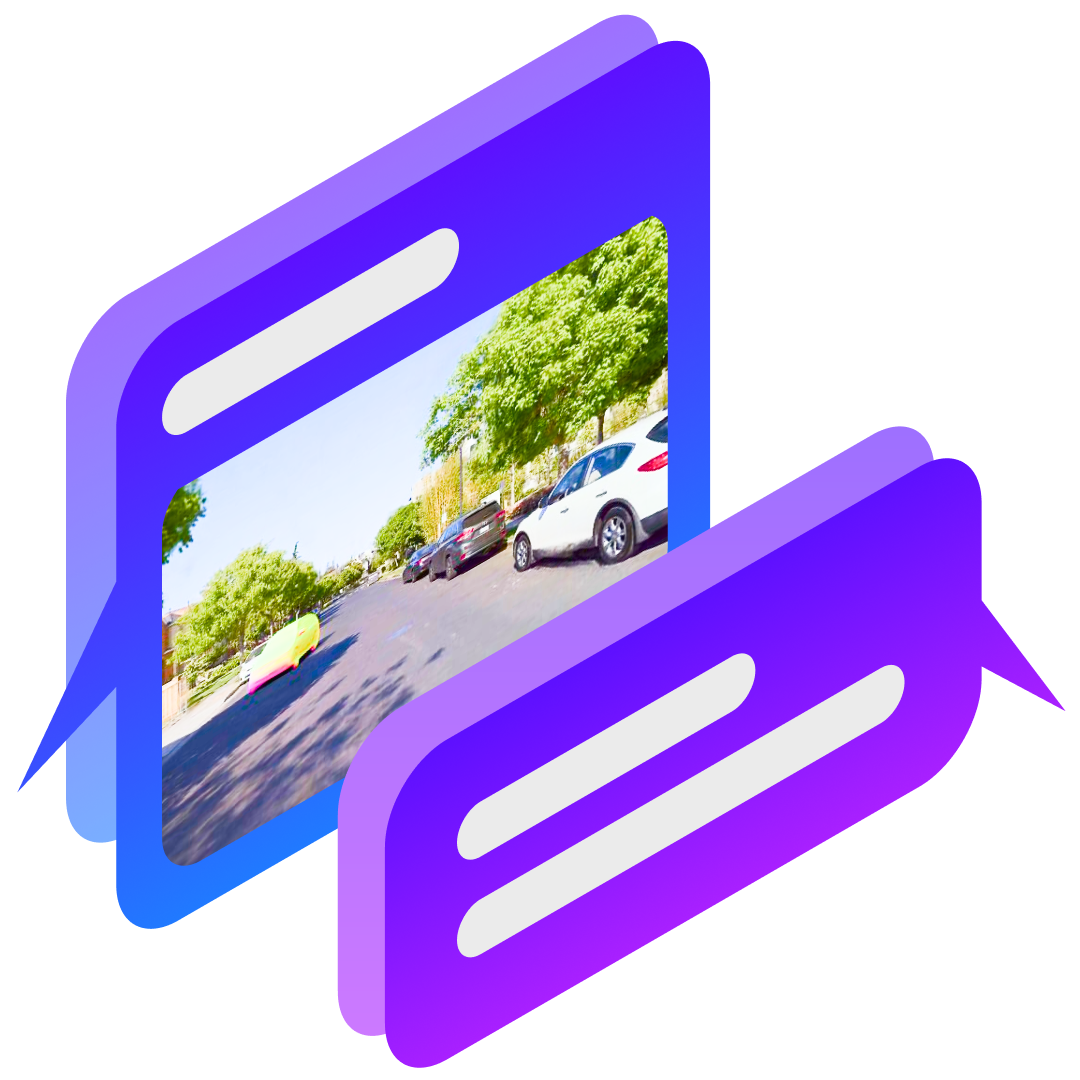
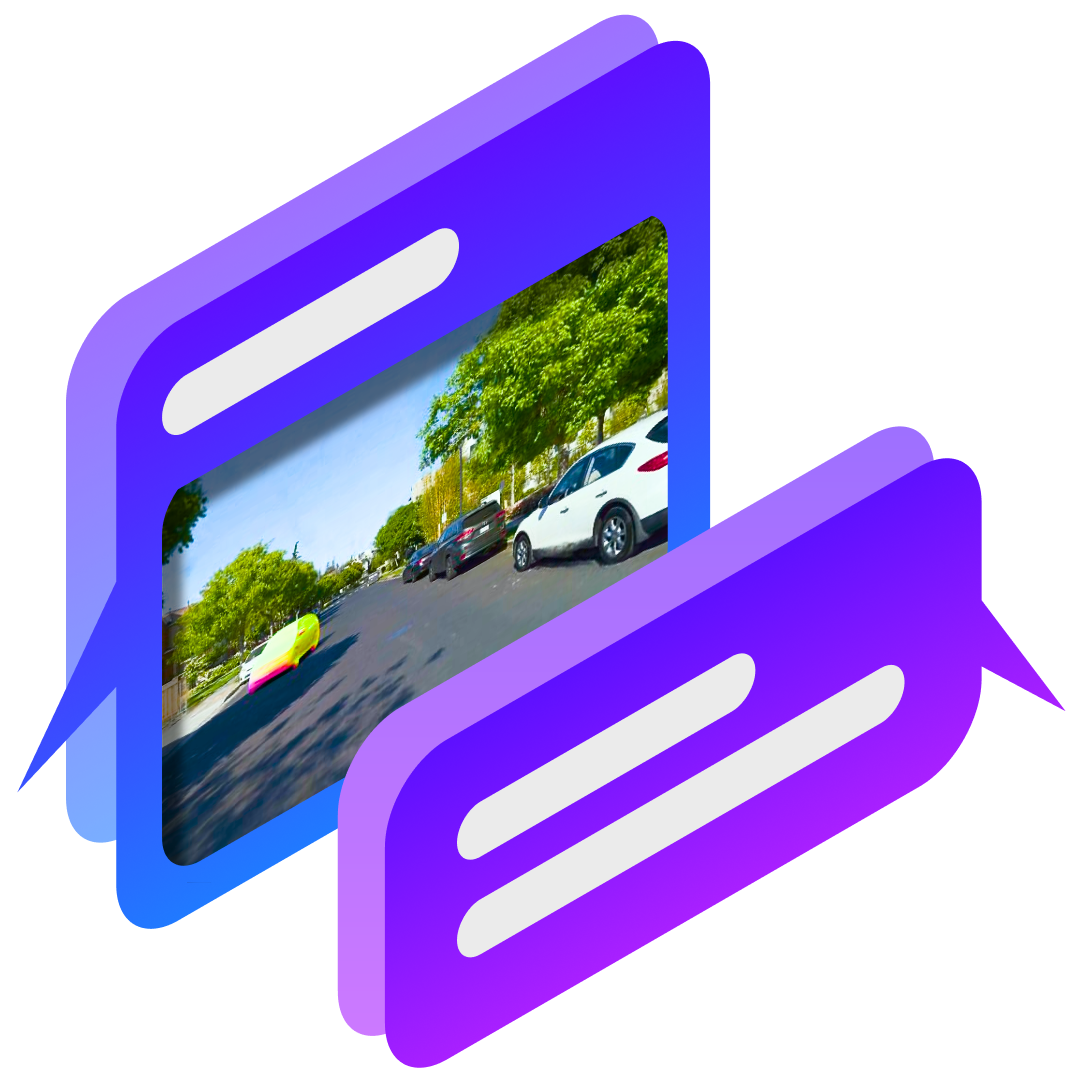
Some more images file size optimization

Changed region(s): [[0.1528, 0.1833, 0.6417, 0.825]]

diff --git a/docs/overrides/home.html b/docs/overrides/home.html
@@ -347,21 +347,21 @@
             <!-- feature-box-item -->
             <div class="col-lg-4 col-sm-6 mb-4">
                 <a href="tutorial_text-generation.html" class="px-4 py-5 bg-white shadow text-center d-block match-height" style="height: 280px;">
-                    <img src="./images/icon_text-generation_iso.png" width="96" height="96">
+                    <img src="./images/icon_text-generation_512px.png" width="96" height="96">
                     <h3 class="mb-3 mt-0">Text Generation</h3>
                     <p class="mb-0">Run LLM-based chat bot on Jetson</p>
                 </a>
             </div>
             <div class="col-lg-4 col-sm-6 mb-4">
                 <a href="tutorial_llava.html" class="px-4 py-5 bg-white shadow text-center d-block match-height" style="height: 280px;">
-                    <img src="./images/icon_vision-language-model.png" width="96" height="96">
+                    <img src="./images/icon_vision-language-model_512px.jpg" width="96" height="96">
                     <h3 class="mb-3 mt-0">Text + Vision</h3>
                     <p class="mb-0">Run Vision-Language model to give your AI access to vision</p>
                 </a>
             </div>
             <div class="col-lg-4 col-sm-6 mb-4">
                 <a href="tutorial_stable-diffusion.html" class="px-4 py-5 bg-white shadow text-center d-block match-height" style="height: 280px;">
-                    <img src="./images/icon_diffusion.jpg" width="96" height="96">
+                    <img src="./images/icon_diffusion_512px.jpg" width="96" height="96">
                     <h3 class="mb-3 mt-0">Image Generation</h3>
                     <p class="mb-0">Run diffusion models to generate stunning images interactively on Jetson</p>
                 </a>
@@ -375,7 +375,7 @@
             </div>
             <div class="col-lg-4 col-sm-6 mb-4">
                 <a href="tutorial_nanosam.html" class="px-4 py-5 bg-white shadow text-center d-block match-height" style="height: 280px;">
-                    <img src="./images/icon_NanoSAM.png" width="96" height="96">
+                    <img src="./images/icon_NanoSAM_512px.jpg" width="96" height="96">
                     <h3 class="mb-3 mt-0">NanoSAM</h3>
                     <p class="mb-0">SAM (Segment Anything Model) optimized to run blazing fast by distilation</p>
                 </a>
